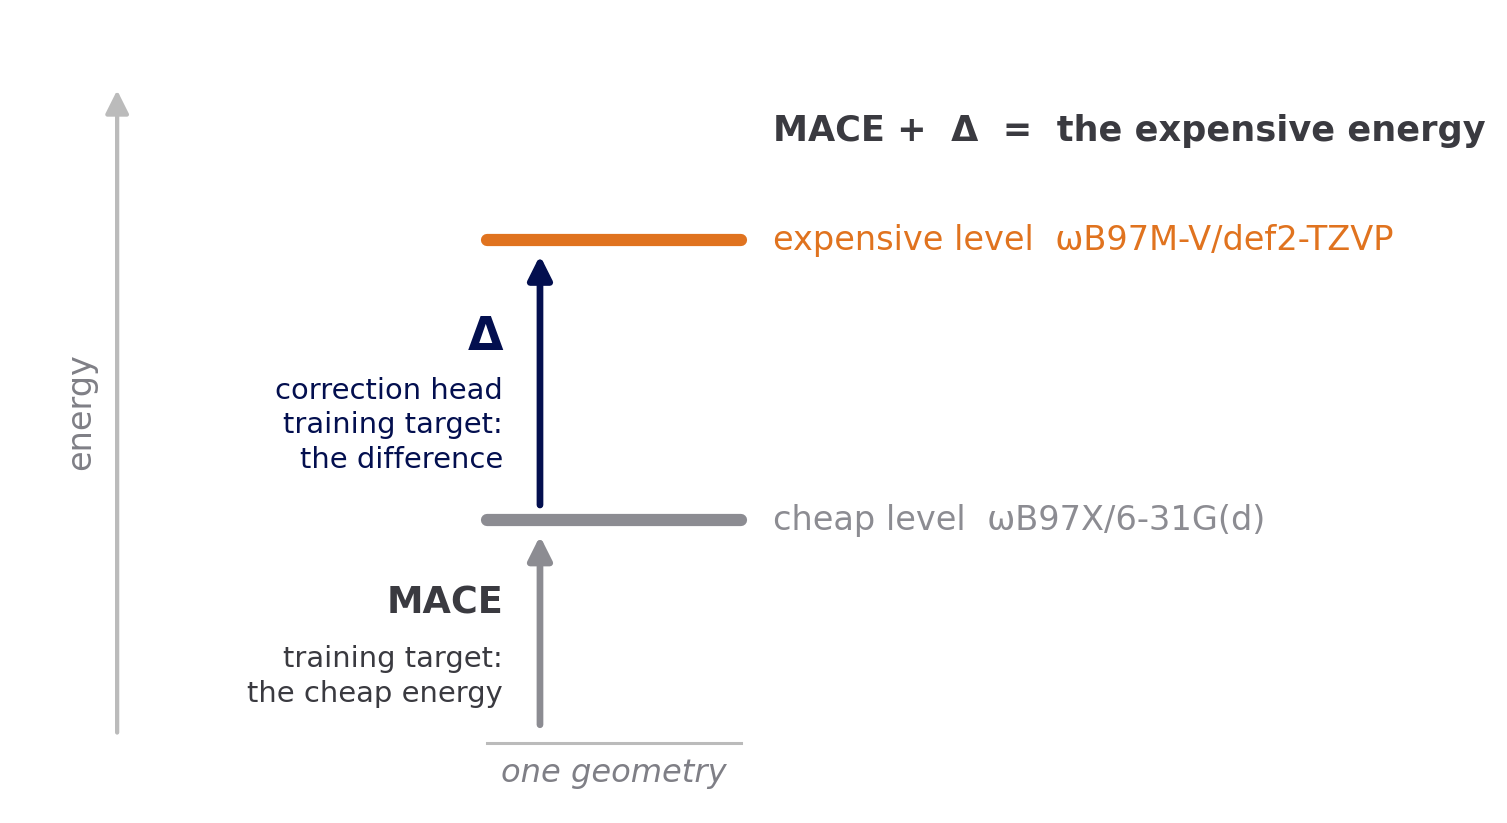
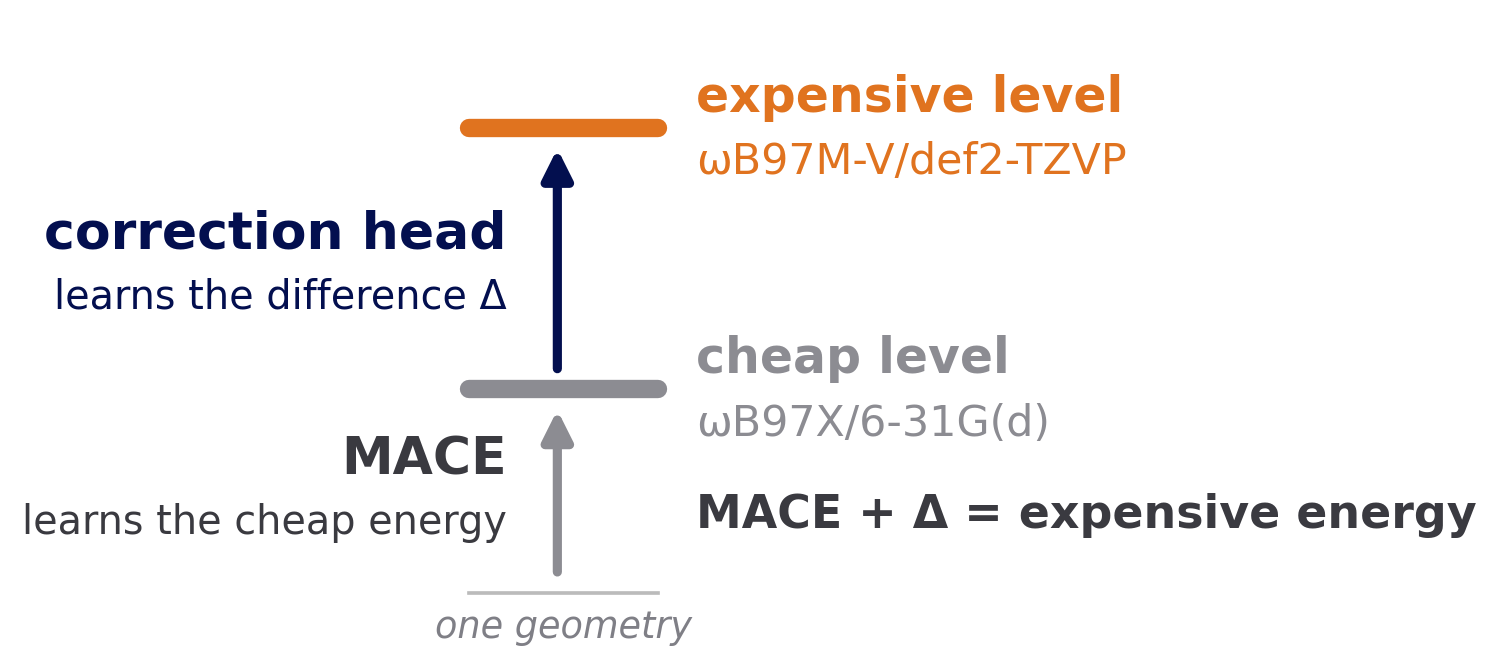
Defence talk: one-geometry training targets, compact with large type

diff --git a/docs/defence/draw_delta_targets_1d.py b/docs/defence/draw_delta_targets_1d.py
@@ -1,5 +1,5 @@
 """One geometry, two energies: what MACE is trained on and what the
-correction head is trained on. An energy-level sketch.
+correction head is trained on. Compact, large type.
 
 Run from the repo root:  python docs/defence/draw_delta_targets_1d.py
 Output: docs/defence/pics/pic_delta_targets_1d.png
@@ -11,31 +11,28 @@ from matplotlib.patches import FancyArrowPatch
 
 OUT = "docs/defence/pics/"
 NEW, MID, DARK, NAVY, GREY = "#e0731f", "#7f7f86", "#3a3a40", "#030f4f", "#8c8c92"
-fig, ax = plt.subplots(figsize=(6.2, 4.6))
-ax.set_xlim(0, 10); ax.set_ylim(0, 10); ax.axis("off")
-x0, x1 = 4.4, 6.8
-y_cheap, y_exp = 3.6, 7.2
-# energy axis
-ax.add_patch(FancyArrowPatch((0.9, 0.8), (0.9, 9.2), arrowstyle="-|>", mutation_scale=16, lw=1.4, color="#bbbbbb"))
-ax.text(0.55, 5.0, "energy", rotation=90, ha="center", va="center", fontsize=11, color=MID)
-# the two levels at one geometry
-ax.plot([x0, x1], [y_cheap, y_cheap], color=GREY, lw=4, solid_capstyle="round")
-ax.plot([x0, x1], [y_exp, y_exp], color=NEW, lw=4, solid_capstyle="round")
-ax.text(x1 + 0.3, y_cheap, "cheap level  " + chr(969) + "B97X/6-31G(d)", va="center", fontsize=11, color=GREY)
-ax.text(x1 + 0.3, y_exp, "expensive level  " + chr(969) + "B97M-V/def2-TZVP", va="center", fontsize=11, color=NEW)
-# MACE target: from the bottom up to the cheap level
-ax.add_patch(FancyArrowPatch((x0 + 0.5, 0.9), (x0 + 0.5, y_cheap - 0.12), arrowstyle="-|>", mutation_scale=16, lw=2.2, color=GREY))
-ax.text(x0 + 0.5 - 0.35, 0.5 * (0.9 + y_cheap) + 0.3, "MACE", ha="right", va="center", fontsize=12, color=DARK, fontweight="bold")
-ax.text(x0 + 0.5 - 0.35, 0.5 * (0.9 + y_cheap) - 0.25, "training target:" + chr(10) + "the cheap energy", ha="right", va="top", fontsize=9.5, color=DARK, linespacing=1.3)
-# head target: the difference
-ax.add_patch(FancyArrowPatch((x0 + 0.5, y_cheap + 0.12), (x0 + 0.5, y_exp - 0.12), arrowstyle="-|>", mutation_scale=16, lw=2.2, color=NAVY))
-ax.text(x0 + 0.5 - 0.35, 0.5 * (y_cheap + y_exp) + 0.55, chr(916), ha="right", va="center", fontsize=15, color=NAVY, fontweight="bold")
-ax.text(x0 + 0.5 - 0.35, 0.5 * (y_cheap + y_exp) + 0.05, "correction head" + chr(10) + "training target:" + chr(10) + "the difference", ha="right", va="top", fontsize=9.5, color=NAVY, linespacing=1.3)
-# geometry marker
-ax.text(0.5 * (x0 + x1), 0.35, "one geometry", ha="center", va="center", fontsize=10.5, color=MID, style="italic")
-ax.plot([x0, x1], [0.75, 0.75], color="#bbbbbb", lw=1)
-# the sum
-ax.text(x1 + 0.3, y_exp + 1.4, "MACE +  " + chr(916) + "  =  the expensive energy", va="center", fontsize=11.5, color=DARK, fontweight="bold")
+fig, ax = plt.subplots(figsize=(7.4, 3.6))
+ax.set_xlim(0, 10); ax.set_ylim(0, 6.3); ax.axis("off")
+xa = 4.2                      # the arrows
+x0, x1 = 3.5, 5.0             # the level bars
+y_cheap, y_exp = 2.5, 5.2
+ax.plot([x0, x1], [y_cheap, y_cheap], color=GREY, lw=6, solid_capstyle="round")
+ax.plot([x0, x1], [y_exp, y_exp], color=NEW, lw=6, solid_capstyle="round")
+ax.text(x1 + 0.3, y_exp + 0.32, "expensive level", va="center", fontsize=16, color=NEW, fontweight="bold")
+ax.text(x1 + 0.3, y_exp - 0.35, chr(969) + "B97M-V/def2-TZVP", va="center", fontsize=14, color=NEW)
+ax.text(x1 + 0.3, y_cheap + 0.32, "cheap level", va="center", fontsize=16, color=GREY, fontweight="bold")
+ax.text(x1 + 0.3, y_cheap - 0.35, chr(969) + "B97X/6-31G(d)", va="center", fontsize=14, color=GREY)
+# MACE: ground to cheap level
+ax.add_patch(FancyArrowPatch((xa, 0.55), (xa, y_cheap - 0.15), arrowstyle="-|>", mutation_scale=20, lw=3, color=GREY))
+ax.text(xa - 0.4, 0.5 * (0.55 + y_cheap) + 0.25, "MACE", ha="right", va="center", fontsize=17, color=DARK, fontweight="bold")
+ax.text(xa - 0.4, 0.5 * (0.55 + y_cheap) - 0.4, "learns the cheap energy", ha="right", va="center", fontsize=13, color=DARK)
+# head: the difference
+ax.add_patch(FancyArrowPatch((xa, y_cheap + 0.15), (xa, y_exp - 0.15), arrowstyle="-|>", mutation_scale=20, lw=3, color=NAVY))
+ax.text(xa - 0.4, 0.5 * (y_cheap + y_exp) + 0.25, "correction head", ha="right", va="center", fontsize=17, color=NAVY, fontweight="bold")
+ax.text(xa - 0.4, 0.5 * (y_cheap + y_exp) - 0.4, "learns the difference " + chr(916), ha="right", va="center", fontsize=13, color=NAVY)
+ax.plot([x0, x1], [0.4, 0.4], color="#bbbbbb", lw=1.2)
+ax.text(0.5 * (x0 + x1), 0.05, "one geometry", ha="center", va="center", fontsize=12, color=MID, style="italic")
+ax.text(x1 + 0.3, 1.2, "MACE + " + chr(916) + " = expensive energy", va="center", fontsize=15, color=DARK, fontweight="bold")
 fig.savefig(OUT + "pic_delta_targets_1d.png", dpi=220, bbox_inches="tight", transparent=True)
 plt.close(fig)
 print("written", OUT + "pic_delta_targets_1d.png")
